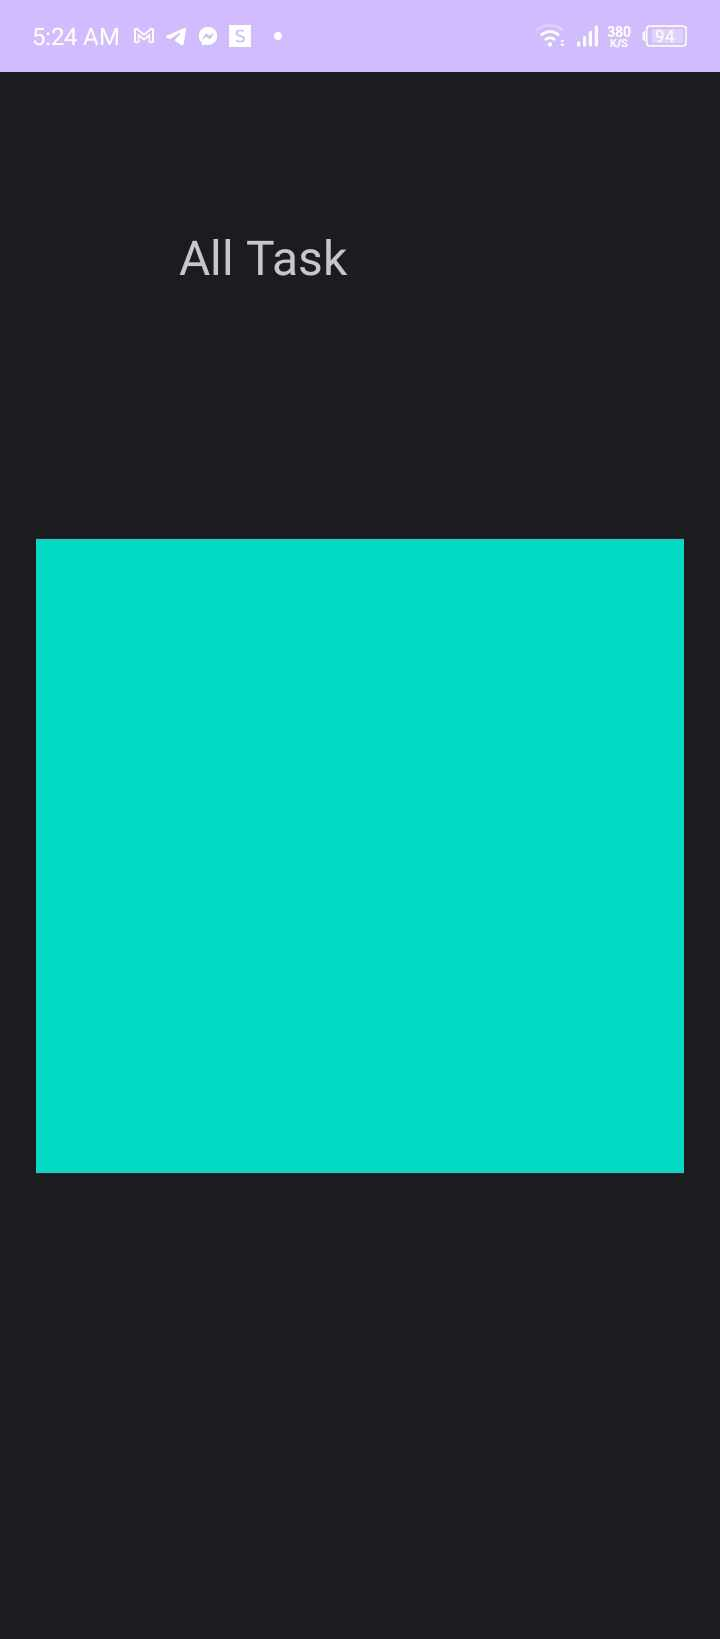
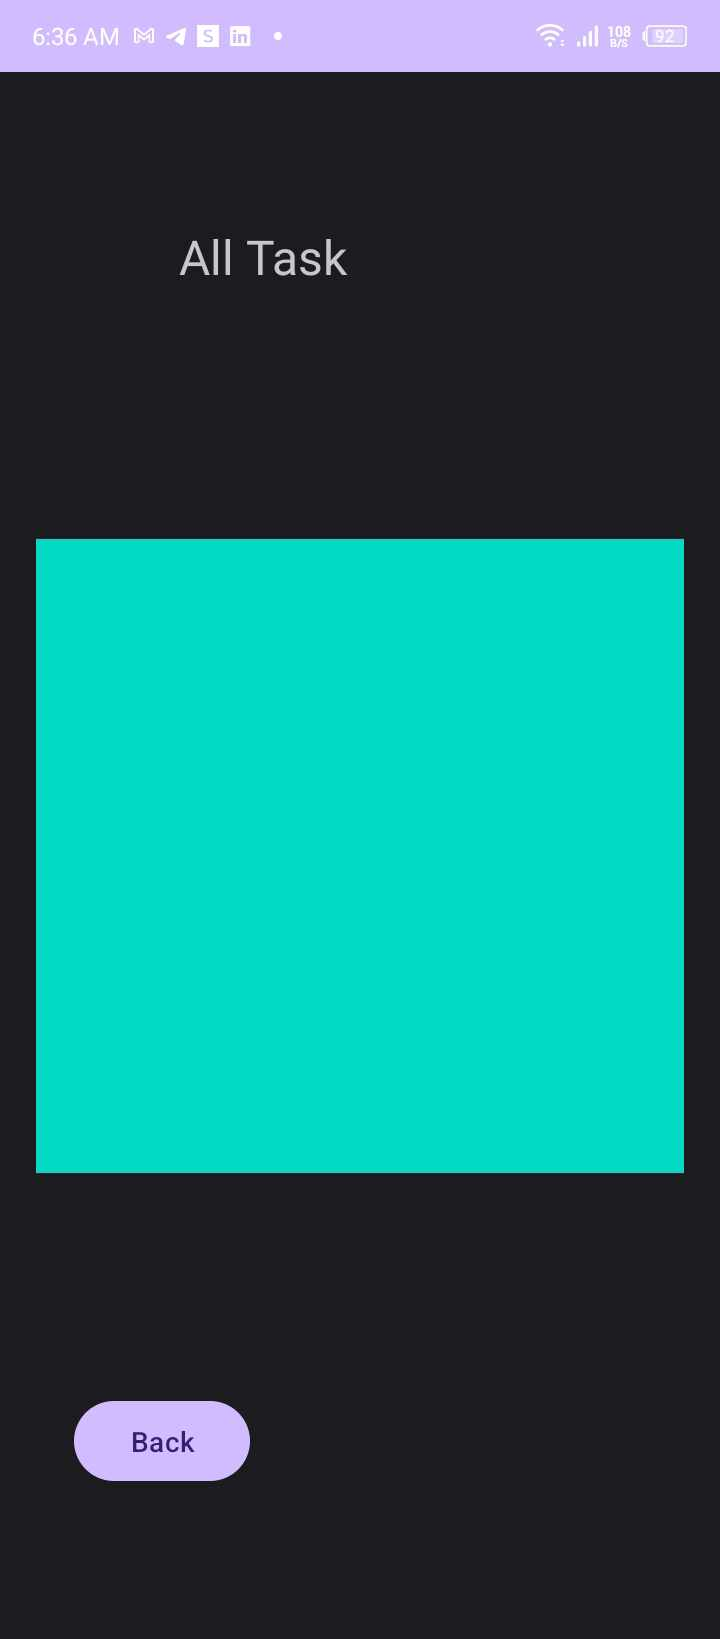
backbutton

Changed region(s): [[0.0917, 0.8401, 0.3667, 0.9024], [0.275, 0.0, 0.3361, 0.0311]]

diff --git a/app/src/main/java/com/example/myapplication/AllTaskActivity.java b/app/src/main/java/com/example/myapplication/AllTaskActivity.java
@@ -2,7 +2,10 @@ package com.example.myapplication;
 
 import androidx.appcompat.app.AppCompatActivity;
 
+import android.content.Intent;
 import android.os.Bundle;
+import android.view.View;
+import android.widget.Button;
 
 public class AllTaskActivity extends AppCompatActivity {
 
@@ -10,5 +13,16 @@ public class AllTaskActivity extends AppCompatActivity {
     protected void onCreate(Bundle savedInstanceState) {
         super.onCreate(savedInstanceState);
         setContentView(R.layout.activity_all_task);
+
+        Button backButton = findViewById(R.id.backButton);
+
+        backButton.setOnClickListener(new View.OnClickListener() {
+            @Override
+            public void onClick(View view) {
+                Intent goToAllTaskActivity = new Intent(AllTaskActivity.this , MainActivity.class);
+                startActivity(goToAllTaskActivity);
+
+            }
+        });
     }
 }

diff --git a/README.md b/README.md
@@ -26,3 +26,4 @@ The Task Master mobile application features three main pages:
 
 3. **All Tasks Page**:
    - Displays an image.
+   - back button.
